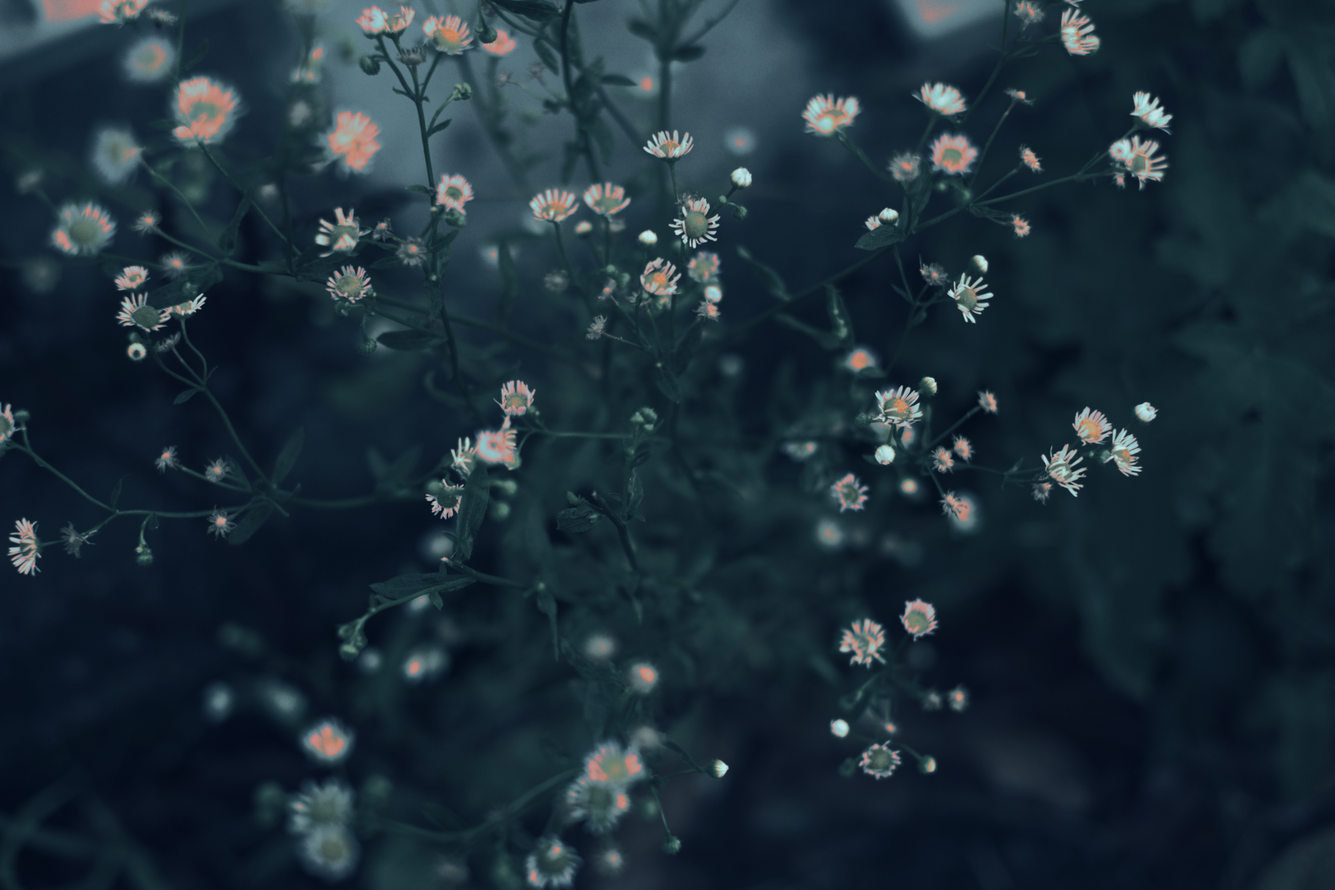
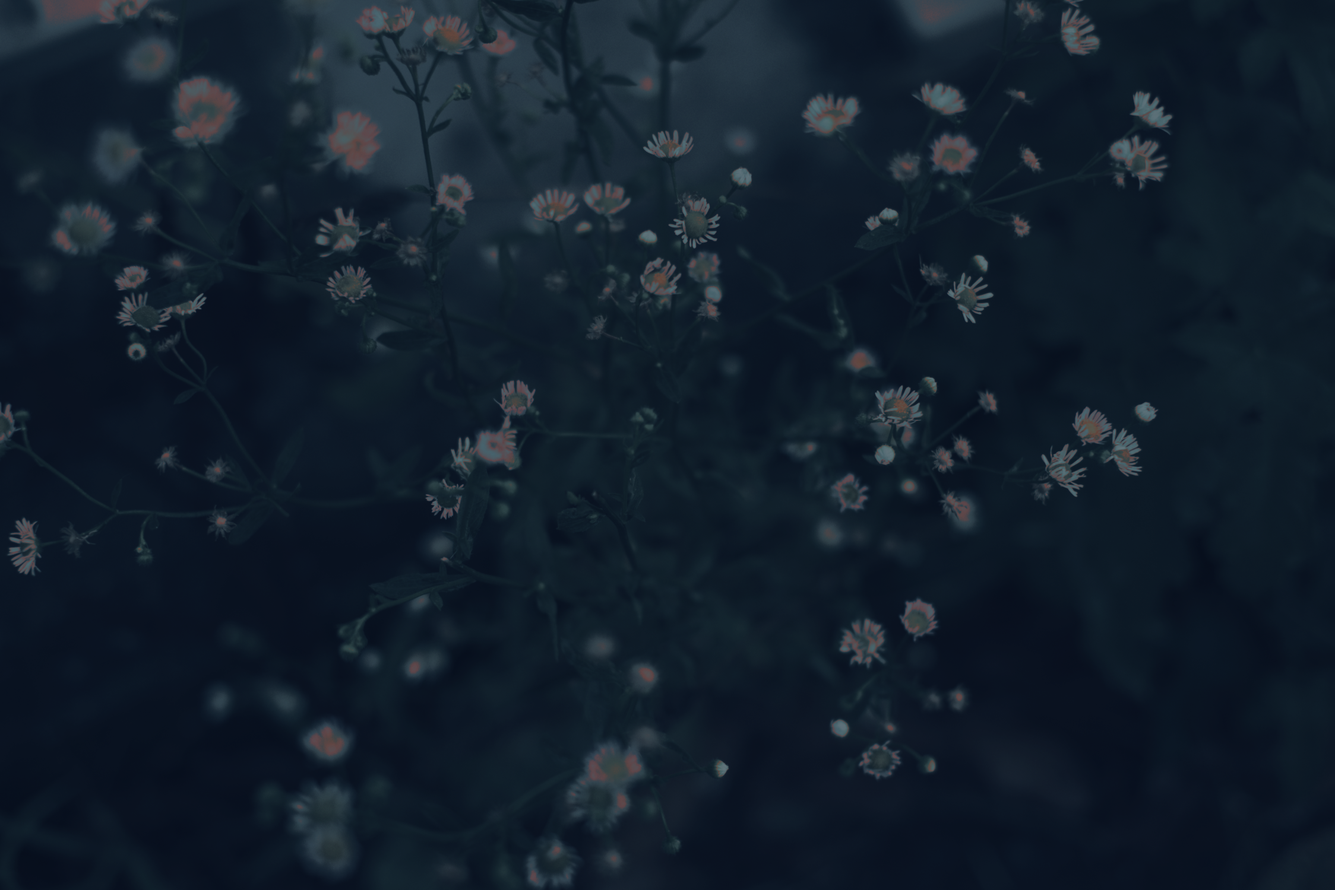
m

diff --git a/meroza_top.html b/meroza_top.html
@@ -8,7 +8,6 @@
 
 <body>
   <div class="box">
-  <img src="bgi.png" class="bg">
   <div class="main">
   主に東方二次創作イラストを描いています。<br>
   skeb依頼募集中（一次創作およびガイドラインで許可された二次創作のみ）。

diff --git a/meroza_style.css b/meroza_style.css
@@ -6,6 +6,8 @@
 
 body{
 	background: #0A1824;
+	background-image: url("bgi.png");
+	background-size: cover;
 	font-family: "font";
 	color: #fff;
 	line-height: 1.5em;
@@ -17,6 +19,7 @@ body{
 	top: 0;
 	right: 0;
 	z-index: -3;
+	width: ;
 }
 
 div.main{
